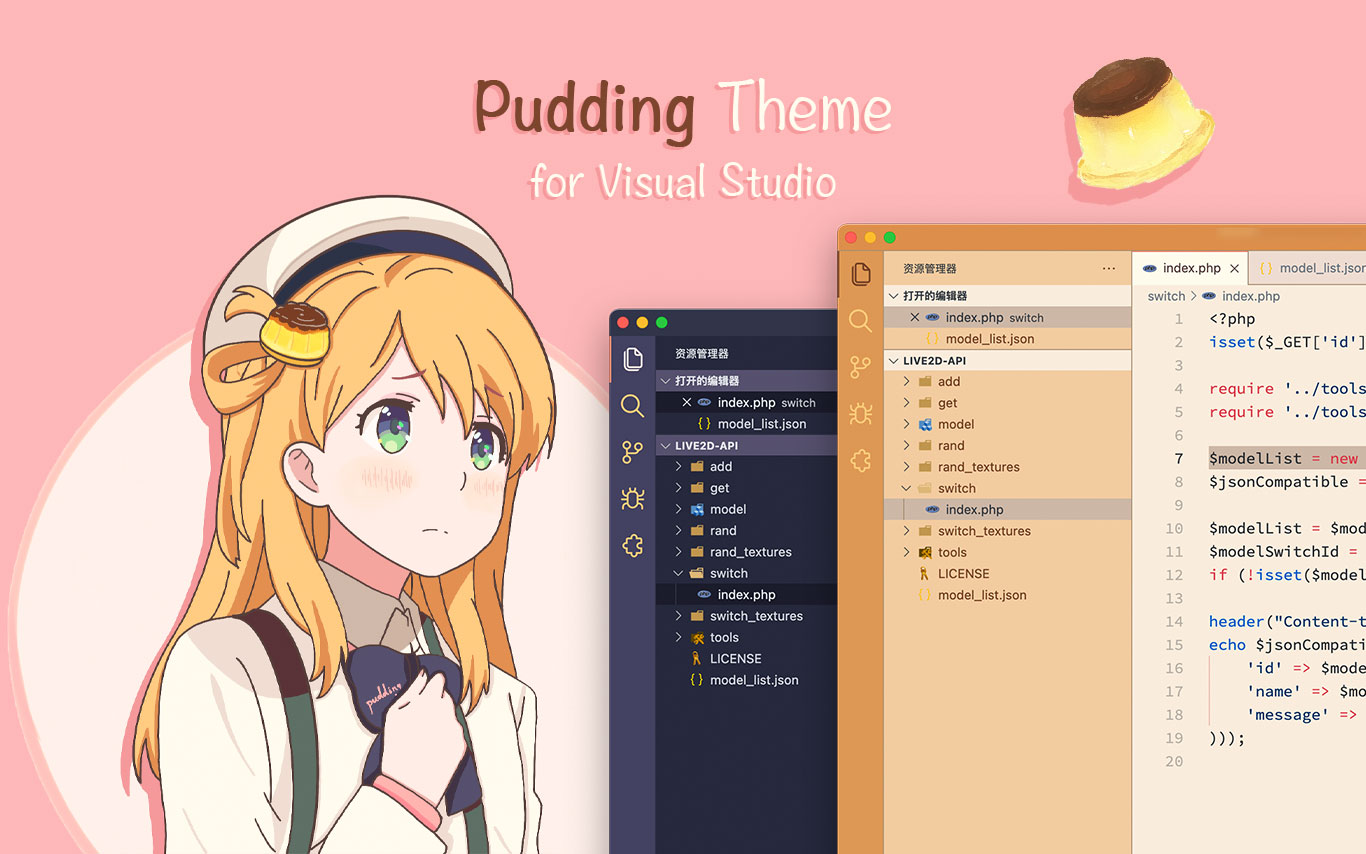
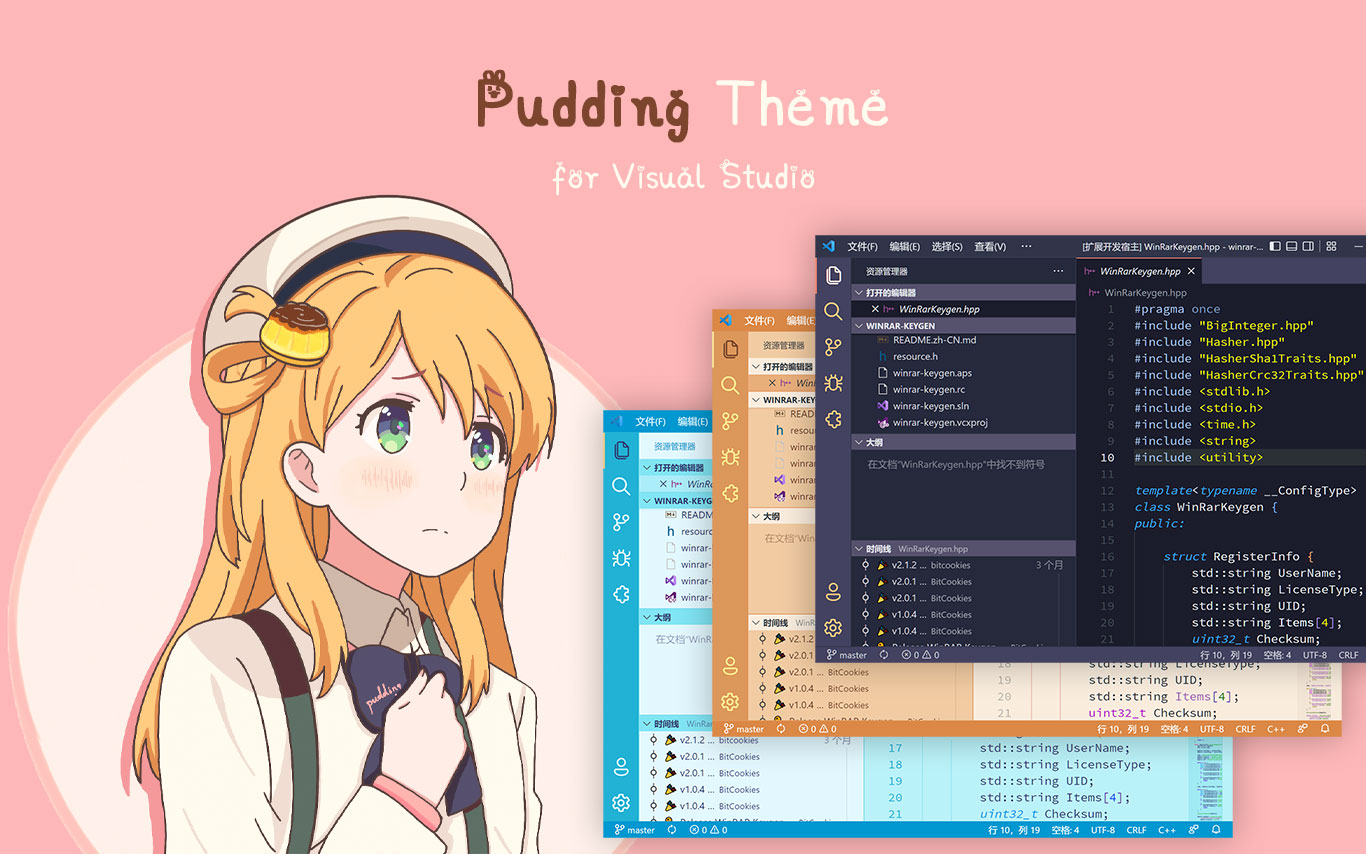
Update VScode Theme

diff --git a/pudding-vscode-theme/index.html b/pudding-vscode-theme/index.html
@@ -236,9 +236,30 @@
 				<h2>1. Pudding Theme</h2>
 				<p>The Visual Studio Code <b>Pudding Theme</b> currently comes in two colorways, a Light Theme and a Dark Theme.</p>
 				<h2>2. Color Scheme</h2>
+				<h3>2.1 Color</h3>
 				<p>The color scheme of this theme comes from the original cartoon character, <b>Pudding</b>. The colors in the painted image of Pudding were extracted and then used to develop this pudding theme.</p>
-				<span class="image featured"><img src="screenshot-2.png" alt="screenshot-2" /></span>
 				<p>Since this color scheme was originally intended for painting, there may be some problems with inappropriate colors when applied to program themes such as Visual Studio Code, and subsequent updates will be made to optimize and adjust the best style of the theme.</p>
+				<h3>2.2 Themes</h3>
+
+				<table>
+					<tr>
+					  	<th width="70%" style="text-align: center; vertical-align: middle;">Theme</th>
+					  	<th width="30%" style="text-align: center; vertical-align: middle;">Name</th>
+					</tr>
+					<tr>
+						<th width="70%" style="text-align: center; vertical-align: middle;"><img width="70%" src="screenshot-2.png" alt="theme"></th>
+						<th width="30%" style="text-align: center; vertical-align: middle;">Pudding Dark</th>
+					</tr>
+					<tr>
+						<th width="70%" style="text-align: center; vertical-align: middle;"><img width="70%" src="screenshot-3.png" alt="theme""></th>
+						<th width="30%" style="text-align: center; vertical-align: middle;">Pudding Light</th>
+					</tr>
+					<tr>
+						<th width="70%" style="text-align: center; vertical-align: middle;"><img width="70%" src="screenshot-4.png" alt="theme""></th>
+						<th width="30%" style="text-align: center; vertical-align: middle;">Pudding Light Aquarium</th>
+					</tr>
+				</table>
+
 				<h2>3. Install</h2>
 				<p>
 					<ol>
